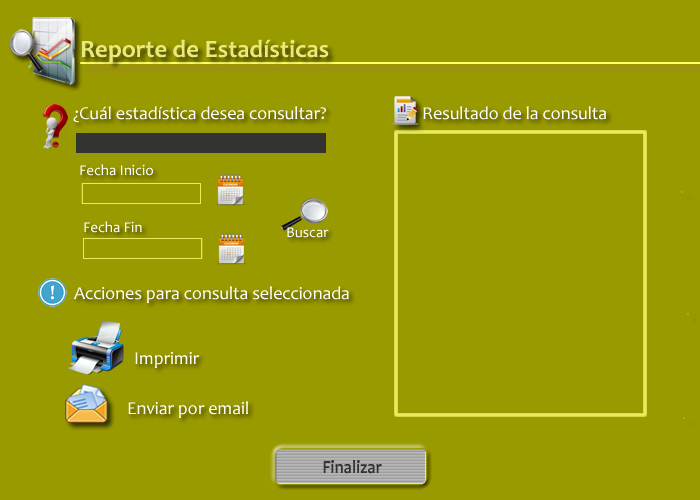
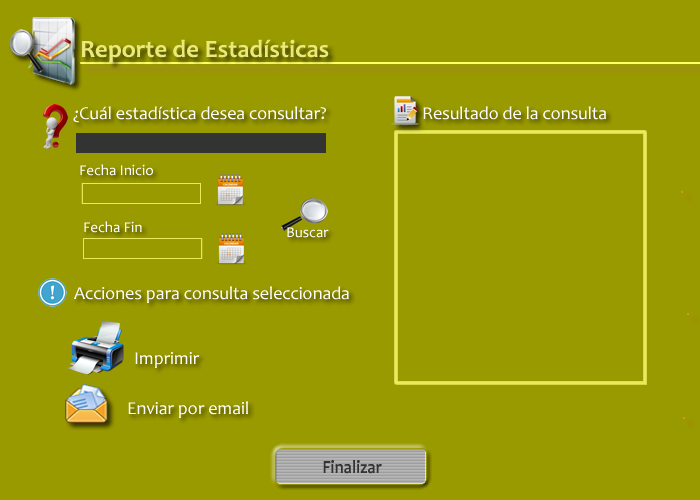
empece las estadisticas

Changed region(s): [[0.54, 0.75, 0.93, 0.84]]

diff --git a/src/presentacion/vista/consultoEstadistica.java b/src/presentacion/vista/consultoEstadistica.java
@@ -20,6 +20,11 @@ import javax.swing.border.MatteBorder;
 import javax.swing.table.DefaultTableModel;
 
 import presentacion.controlador.Controlador;
+import javax.swing.DefaultComboBoxModel;
+import javax.swing.JCheckBox;
+import java.awt.Font;
+import javax.swing.ButtonGroup;
+import javax.swing.SwingConstants;
 
 public class consultoEstadistica extends JDialog {
 
@@ -37,6 +42,8 @@ public class consultoEstadistica extends JDialog {
 	private JButton btnCalendarioFin;
 	private JButton btnBuscar;
 	private Controlador control;
+	private final ButtonGroup buttonGroup = new ButtonGroup();
+	private JTextField tfOcultarTop;
 
 
 	public consultoEstadistica(VentanaPrincipal ventana, Controlador control) {
@@ -48,11 +55,12 @@ public class consultoEstadistica extends JDialog {
 		contentPanel.setLayout(null);
 		
 		cbEstadisticas= new JComboBox();
+		cbEstadisticas.setModel(new DefaultComboBoxModel(new String[] {"(Seleccione una estadistica)", "Productos mas comprados", "Productos menos comprados", "Ofertas mas compradas", "Ofertas menos compradas", "Cliente mas comprador"}));
 		cbEstadisticas.setBounds(76, 131, 250, 22);
 		contentPanel.add(cbEstadisticas);
 		
 		JScrollPane scrollPane = new JScrollPane();
-		scrollPane.setBounds(398, 134, 244, 280);
+		scrollPane.setBounds(398, 134, 244, 246);
 		contentPanel.add(scrollPane);
 		
 		model = new DefaultTableModel(null,nombreColumnas);
@@ -65,6 +73,9 @@ public class consultoEstadistica extends JDialog {
 		scrollPane.setViewportView(table);
 		
 		tfFechaInicio = new JTextField();
+		tfFechaInicio.setHorizontalAlignment(SwingConstants.CENTER);
+		tfFechaInicio.setFont(new Font("Calibri", Font.BOLD, 14));
+		tfFechaInicio.setForeground(Color.LIGHT_GRAY);
 		tfFechaInicio.setEditable(false);
 		tfFechaInicio.setBorder(new MatteBorder(0, 0, 0, 0, (Color) new Color(0, 0, 0)));
 		tfFechaInicio.setBackground(new Color(153, 153, 0));
@@ -73,6 +84,9 @@ public class consultoEstadistica extends JDialog {
 		tfFechaInicio.setColumns(10);
 		
 		tfFechaFin = new JTextField();
+		tfFechaFin.setHorizontalAlignment(SwingConstants.CENTER);
+		tfFechaFin.setFont(new Font("Calibri", Font.BOLD, 14));
+		tfFechaFin.setForeground(Color.LIGHT_GRAY);
 		tfFechaFin.setEditable(false);
 		tfFechaFin.setBorder(new MatteBorder(0, 0, 0, 0, (Color) new Color(0, 0, 0)));
 		tfFechaFin.setBackground(new Color(153, 153, 0));
@@ -85,9 +99,34 @@ public class consultoEstadistica extends JDialog {
 		tfOcultaRangoFechas.setEditable(false);
 		tfOcultaRangoFechas.setBorder(new MatteBorder(0, 0, 0, 0, (Color) new Color(0, 0, 0)));
 		tfOcultaRangoFechas.setBackground(new Color(153, 153, 0));
-		tfOcultaRangoFechas.setBounds(62, 160, 294, 107);
+		tfOcultaRangoFechas.setBounds(34, 164, 325, 273);
 		contentPanel.add(tfOcultaRangoFechas);
 		tfOcultaRangoFechas.setColumns(10);
+		
+		tfOcultarTop = new JTextField();
+		tfOcultarTop.setEnabled(false);
+		tfOcultarTop.setEditable(false);
+		tfOcultarTop.setBorder(new MatteBorder(0, 0, 0, 0, (Color) new Color(0, 0, 0)));
+		tfOcultarTop.setBackground(new Color(153, 153, 0));
+		tfOcultarTop.setBounds(408, 391, 234, 35);
+		contentPanel.add(tfOcultarTop);
+		tfOcultarTop.setColumns(10);
+		
+		JCheckBox Top5 = new JCheckBox("Top 5");
+		buttonGroup.add(Top5);
+		Top5.setFont(new Font("Calibri", Font.BOLD, 14));
+		Top5.setForeground(Color.LIGHT_GRAY);
+		Top5.setBackground(new Color(153, 153, 0));
+		Top5.setBounds(437, 393, 73, 23);
+		contentPanel.add(Top5);
+		
+		JCheckBox verTodo = new JCheckBox("Ver Todos");
+		buttonGroup.add(verTodo);
+		verTodo.setFont(new Font("Calibri", Font.BOLD, 14));
+		verTodo.setForeground(Color.LIGHT_GRAY);
+		verTodo.setBackground(new Color(153, 153, 0));
+		verTodo.setBounds(521, 393, 85, 23);
+		contentPanel.add(verTodo);
 		
 		JLabel lblNewLabel = new JLabel("");
 		lblNewLabel.setIcon(new ImageIcon(consultoEstadistica.class.getResource("/prototipos/reportesEstadistica.png")));
@@ -247,14 +286,24 @@ public class consultoEstadistica extends JDialog {
 		this.btnCalendarioFin = btnCalendarioFin;
 	}
 
+	public JTextField getTfOcultarTop() {
+		return tfOcultarTop;
+	}
+
+	public void setTfOcultarTop(JTextField tfOcultarTop) {
+		this.tfOcultarTop = tfOcultarTop;
+	}
+
 
 	public JButton getBtnBuscar() {
 		return btnBuscar;
 	}
-
+		
+	public ButtonGroup getButtonGroup() {
+		return buttonGroup;
+	}
 
 	public void setBtnBuscar(JButton btnBuscar) {
 		this.btnBuscar = btnBuscar;
 	}
-	
 }

diff --git a/src/presentacion/controlador/Controlador.java b/src/presentacion/controlador/Controlador.java
@@ -37,6 +37,7 @@ import modelo.Items;
 import modelo.ItemsPromociones;
 import modelo.Itinerarios;
 import modelo.MatPrimas;
+import modelo.ProductoEstadistico;
 import modelo.Promociones;
 import modelo.OrdenesMateriaPrimas;
 import modelo.Pedidos;
@@ -366,11 +367,101 @@ public class Controlador implements ActionListener
 			ventanaReportesEstadistica.getBtnCalendarioInicio().addActionListener(this);
 			ventanaReportesEstadistica.getBtnEnviarPorEmail().addActionListener(this);
 			ventanaReportesEstadistica.getBtnImprimir().addActionListener(this);
+			ventanaReportesEstadistica.getCbEstadisticas().addActionListener(this);
 			ventanaReportesEstadistica.setVisible(true);
 		}
-		
-		
-		
+		//Seleccionar tipos de Estadisticas
+		else if(this.ventanaReportesEstadistica!= null && e.getSource()==this.ventanaReportesEstadistica.getCbEstadisticas())
+		{
+			String tipoProducto = (String) ventanaReportesEstadistica.getCbEstadisticas().getSelectedItem().toString();
+			if (tipoProducto.compareTo("(Seleccione una estadistica)")==0)
+			{
+				ventanaReportesEstadistica.getTfOcultaRangoFechas().setVisible(true);
+				ventanaReportesEstadistica.getTfOcultarTop().setVisible(true);
+				ventanaReportesEstadistica.getTfFechaInicio().setText("");
+				ventanaReportesEstadistica.getTfFechaFin().setText("");
+			}
+			else if(tipoProducto.compareTo("Productos mas comprados")==0 || tipoProducto.compareTo("Productos menos comprados")==0 )
+			{
+				ventanaReportesEstadistica.getTfOcultaRangoFechas().setVisible(false);
+				ventanaReportesEstadistica.getTfOcultarTop().setVisible(false);
+				ventanaReportesEstadistica.getTfFechaInicio().setText("");
+				ventanaReportesEstadistica.getTfFechaFin().setText("");
+			}
+			else if(tipoProducto.compareTo("Ofertas mas compradas")==0 || tipoProducto.compareTo("Ofertas menos compradas")==0|| tipoProducto.compareTo("Cliente mas comprador")==0 )
+			{
+				ventanaReportesEstadistica.getTfOcultaRangoFechas().setVisible(false);
+				ventanaReportesEstadistica.getTfOcultarTop().setVisible(true);
+				ventanaReportesEstadistica.getTfFechaInicio().setText("");
+				ventanaReportesEstadistica.getTfFechaFin().setText("");
+			}
+		}
+		//establecer fecha de inicio y fin para ESTADISTICAS
+		else if(this.ventanaReportesEstadistica!= null && (e.getSource()==this.ventanaReportesEstadistica.getBtnCalendarioInicio() ||e.getSource()==this.ventanaReportesEstadistica.getBtnCalendarioFin() ))
+		{
+			if(e.getSource()==this.ventanaReportesEstadistica.getBtnCalendarioInicio())
+			{
+				ventanaCalendario=new calendario(ventanaReportesEstadistica);
+				ventanaCalendario.setTitle("Fecha de Inicio");
+				ventanaCalendario.setVisible(true);
+			}
+			else
+			{
+				ventanaCalendario=new calendario(ventanaReportesEstadistica);
+				ventanaCalendario.setTitle("Fecha de Fin");
+				ventanaCalendario.setVisible(true);
+			}	
+		}
+		//BUSCAR ESTADISTICAS EN UN RANGO DE FECHAS
+		else if(this.ventanaReportesEstadistica!= null && e.getSource()==this.ventanaReportesEstadistica.getBtnBuscar())
+		{
+			if(ventanaReportesEstadistica.getTfFechaInicio().getText().compareTo("")!=0 &&ventanaReportesEstadistica.getTfFechaFin().getText().compareTo("")!=0)
+			{
+				Iterator<PedidoDTO> pedidos=this.pedido.obtenerPedidos().iterator();
+				ArrayList<ProductoEstadistico> productos=new ArrayList<ProductoEstadistico>();
+				while (pedidos.hasNext())
+				{
+					Iterator<ItemDTO> elemento = pedidos.next().getProductos().iterator();
+					while(elemento.hasNext())
+					{
+						if()
+					}
+					
+				}
+				
+				String tipoProducto = (String) ventanaReportesEstadistica.getCbEstadisticas().getSelectedItem().toString();
+				switch (tipoProducto) {
+				case "Productos mas comprados":
+				{
+					
+				}				
+				break;
+
+				case "Productos menos comprados":
+				{
+					
+				}				
+				break;
+				case "Ofertas mas compradas":
+				{
+					
+				}				
+				break;
+				case "Ofertas menos compradas":
+				{
+					
+				}				
+				break;
+				case "Cliente mas comprador":
+				{
+					
+				}				
+				break;
+				}
+			}
+			else
+				JOptionPane.showMessageDialog(null, "Error, para hacer la consulta debe seleccionar la fecha de inicio y fin");
+		}
 		//ABRIR SELECTOR MAT PRIMA
 		else if(e.getSource()== this.ventana.getBtnPedMatPrima())
 		{

diff --git a/src/presentacion/vista/calendario.java b/src/presentacion/vista/calendario.java
@@ -21,12 +21,15 @@ public class calendario extends JDialog {
 	private final JPanel contentPanel = new JPanel();
 	private JCalendar _calendar;
 	private repartidorAlta _padre;
+	private consultoEstadistica _ventanaEstadistica;
 
 	
-	public calendario(repartidorAlta padre) {
+	public calendario(repartidorAlta padre) 
+	{
 		setResizable(false);
 		setModal(true);
 		_padre=padre;
+		_this=this;
 		setTitle("Calendario");
 		setBounds(100, 100, 319, 239);
 		getContentPane().setLayout(new BorderLayout());
@@ -49,8 +52,67 @@ public class calendario extends JDialog {
 				public void actionPerformed(ActionEvent e) 
 				{
 					Date fech=_calendar.getDate();
-					_padre.getTfFechaNacimiento().setText(fech.getDay()+"-"+(fech.getMonth()+1)+"-"+(fech.getYear()+1900));
+					_padre.getTfFechaNacimiento().setText(fech.getDate()+"-"+(fech.getMonth()+1)+"-"+(fech.getYear()+1900));
 					dispose();
+				}
+			});
+			_aceptar.setActionCommand("OK");
+			getRootPane().setDefaultButton(_aceptar);
+		}
+		{
+			JButton cancelButton = new JButton("Cancelar");
+			cancelButton.setBounds(219, 151, 74, 23);
+			contentPanel.add(cancelButton);
+			cancelButton.addActionListener(new ActionListener() {
+				@Override
+				public void actionPerformed(ActionEvent arg0) 
+				{
+					dispose();
+				}
+			});
+			cancelButton.setActionCommand("Cancel");
+		}
+	}
+
+
+	public calendario(consultoEstadistica ventanaEstadistica)
+	{
+		setResizable(false);
+		setModal(true);
+		_this=this;
+		_ventanaEstadistica=ventanaEstadistica;
+		setTitle("Calendario");
+		setBounds(100, 100, 319, 239);
+		getContentPane().setLayout(new BorderLayout());
+		contentPanel.setBackground(new Color(204, 204, 0));
+		contentPanel.setLayout(new FlowLayout());
+		contentPanel.setBorder(new EmptyBorder(5, 5, 5, 5));
+		getContentPane().add(contentPanel, BorderLayout.CENTER);
+		{
+			 _calendar= new JCalendar();
+			 _calendar.setBorder(new MatteBorder(0, 0, 0, 0, new Color(0, 0, 0)));
+			 _calendar.setBackground(new Color(204, 204, 0));
+			 contentPanel.add(_calendar);
+		}
+		{
+			JButton _aceptar = new JButton("Aceptar");
+			_aceptar.setBounds(138, 151, 74, 23);
+			contentPanel.add(_aceptar);
+			_aceptar.addActionListener(new ActionListener() {
+				@Override
+				public void actionPerformed(ActionEvent e) 
+				{
+					Date fech=_calendar.getDate();
+					if(_this.getTitle().compareTo("Fecha de Inicio")==0)
+					{
+						_ventanaEstadistica.getTfFechaInicio().setText(fech.getDate()+"-"+(fech.getMonth()+1)+"-"+(fech.getYear()+1900));
+						dispose();
+					}
+					else if(_this.getTitle().compareTo("Fecha de Fin")==0)
+					{
+						_ventanaEstadistica.getTfFechaFin().setText(fech.getDate()+"-"+(fech.getMonth()+1)+"-"+(fech.getYear()+1900));
+						dispose();
+					}
 				}
 			});
 			_aceptar.setActionCommand("OK");

diff --git a/src/modelo/ProductoEstadistico.java b/src/modelo/ProductoEstadistico.java
@@ -1,0 +1,32 @@
+package modelo;
+
+import dto.ProductoDTO;
+
+public class ProductoEstadistico 
+{
+	private ProductoDTO producto;
+	private Integer cantidad;
+
+	public ProductoEstadistico()
+	{
+		producto=new ProductoDTO();
+		cantidad=0;
+	}
+
+	public ProductoDTO getProducto() {
+		return producto;
+	}
+
+	public void setProducto(ProductoDTO producto) {
+		this.producto = producto;
+	}
+
+	public Integer getCantidad() {
+		return cantidad;
+	}
+
+	public void setCantidad(Integer cantidad) {
+		this.cantidad = cantidad;
+	}
+	
+}
